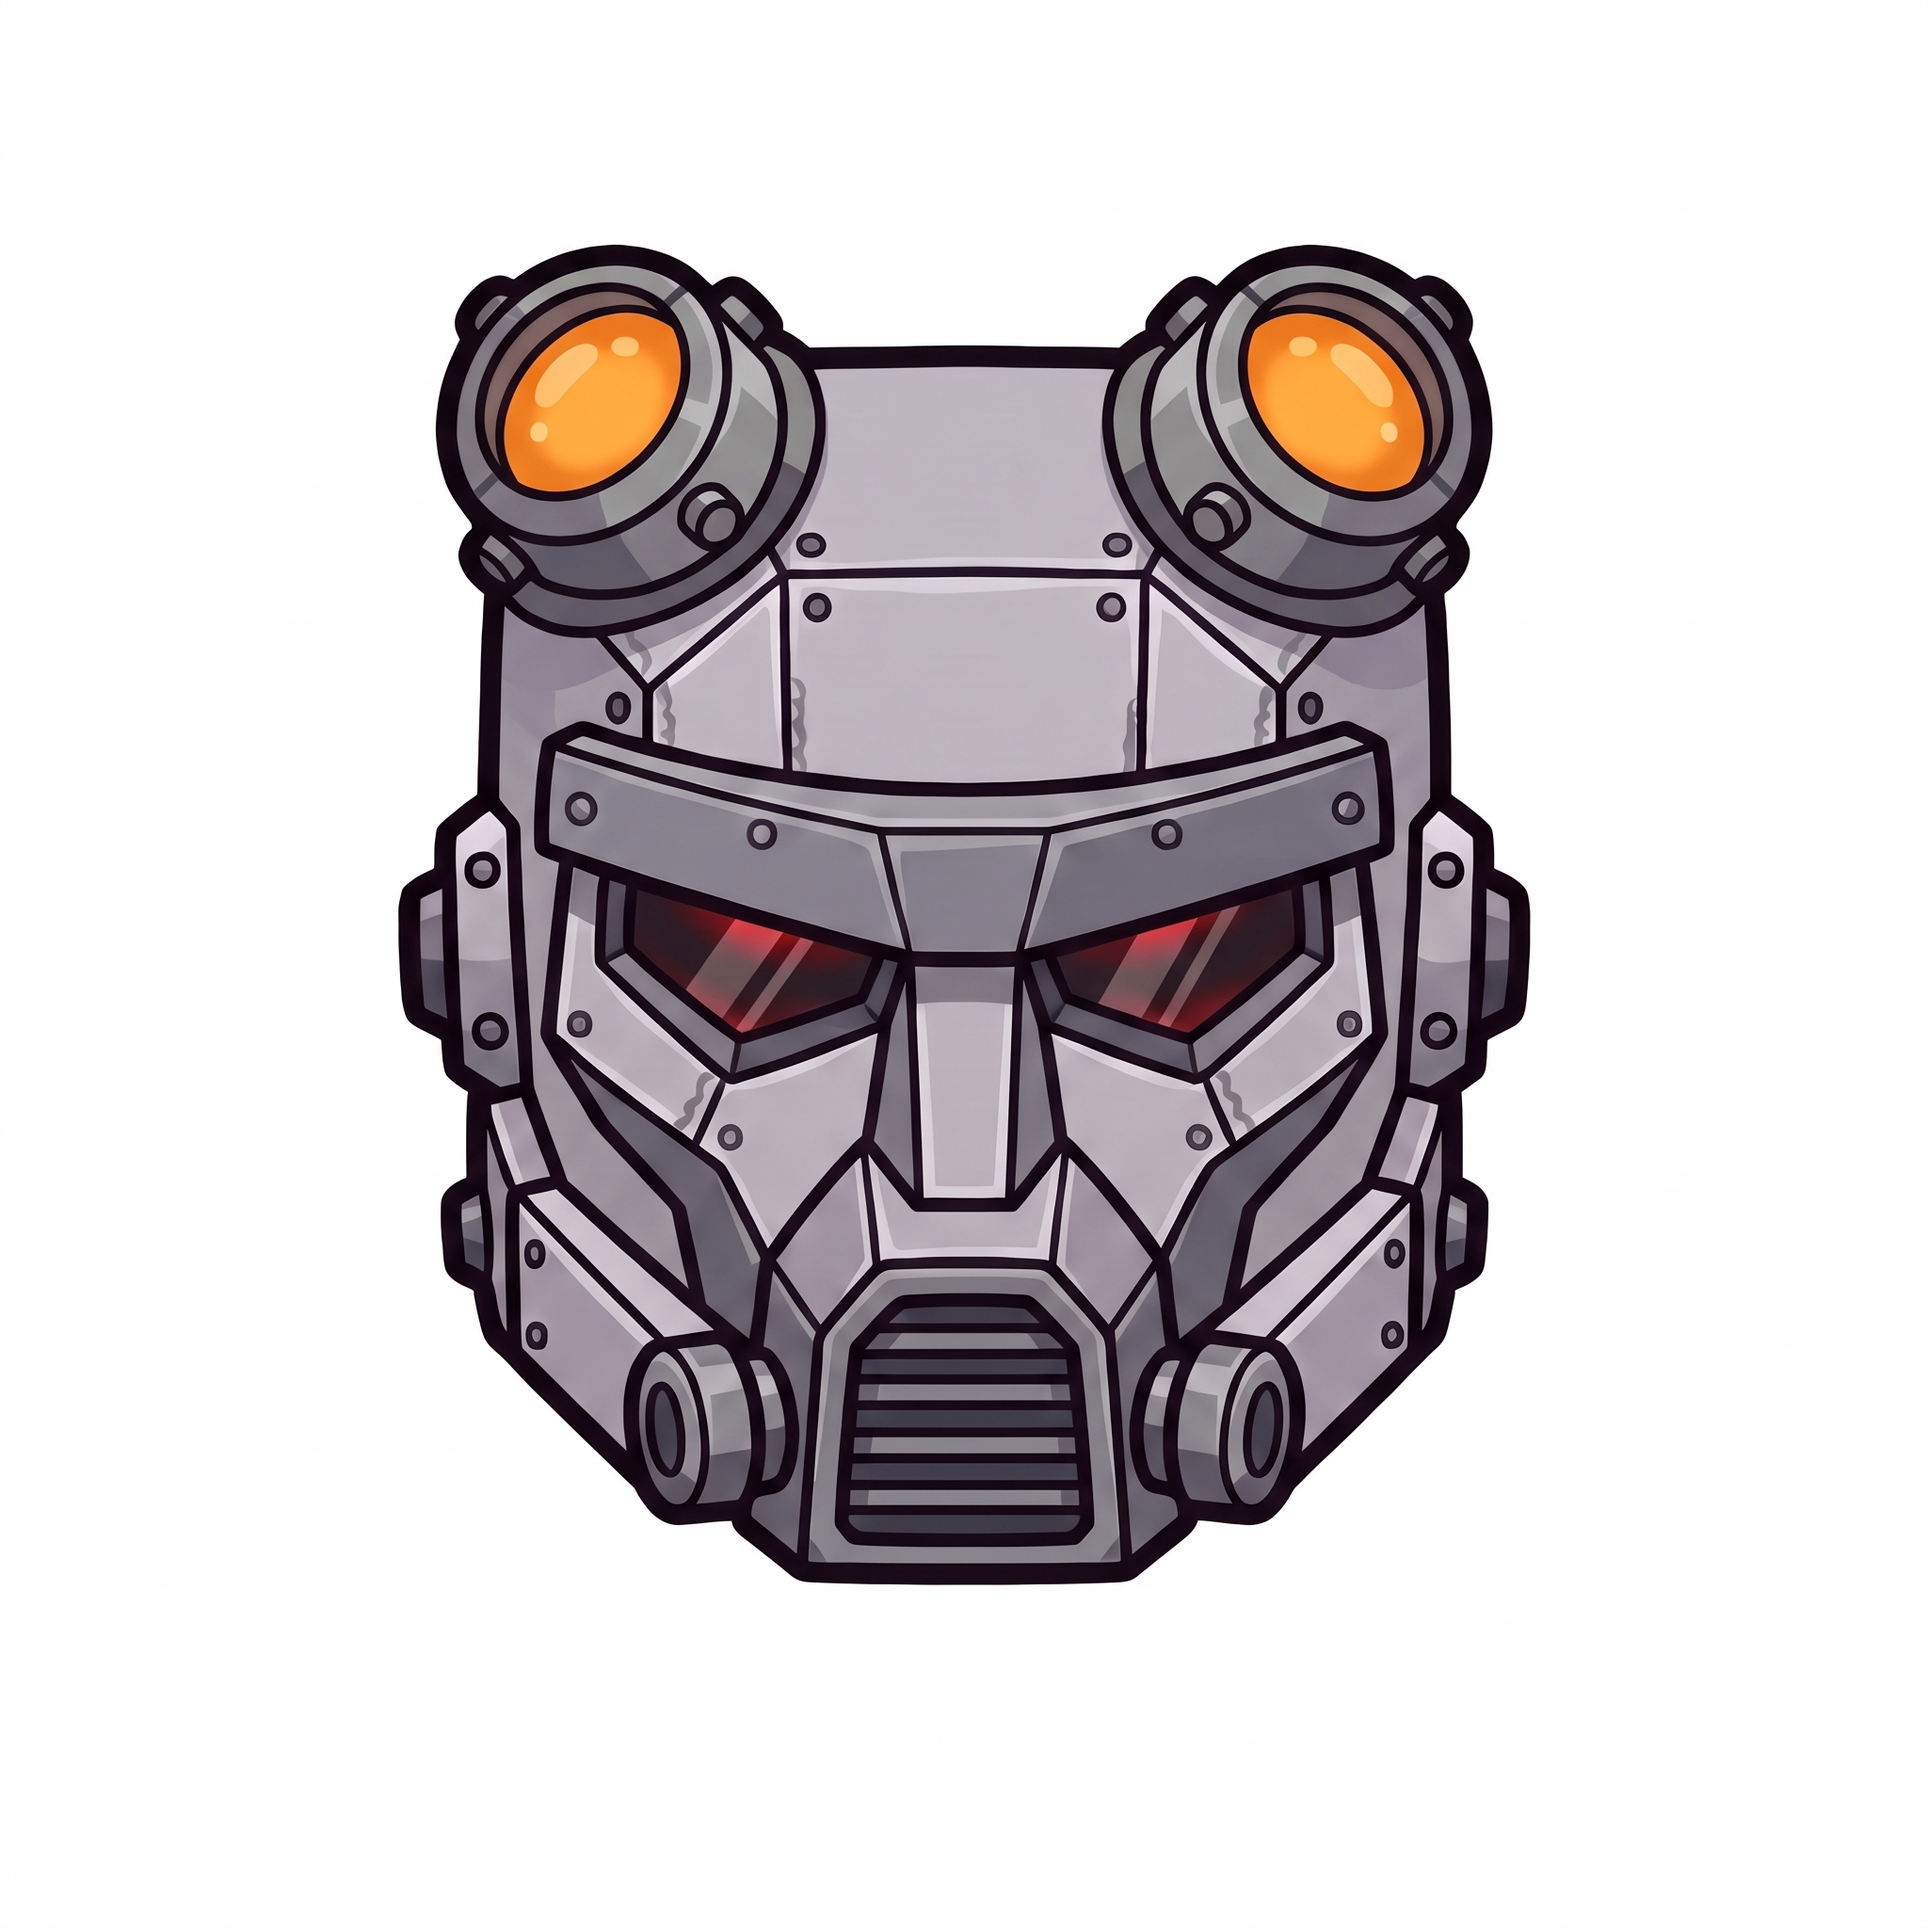
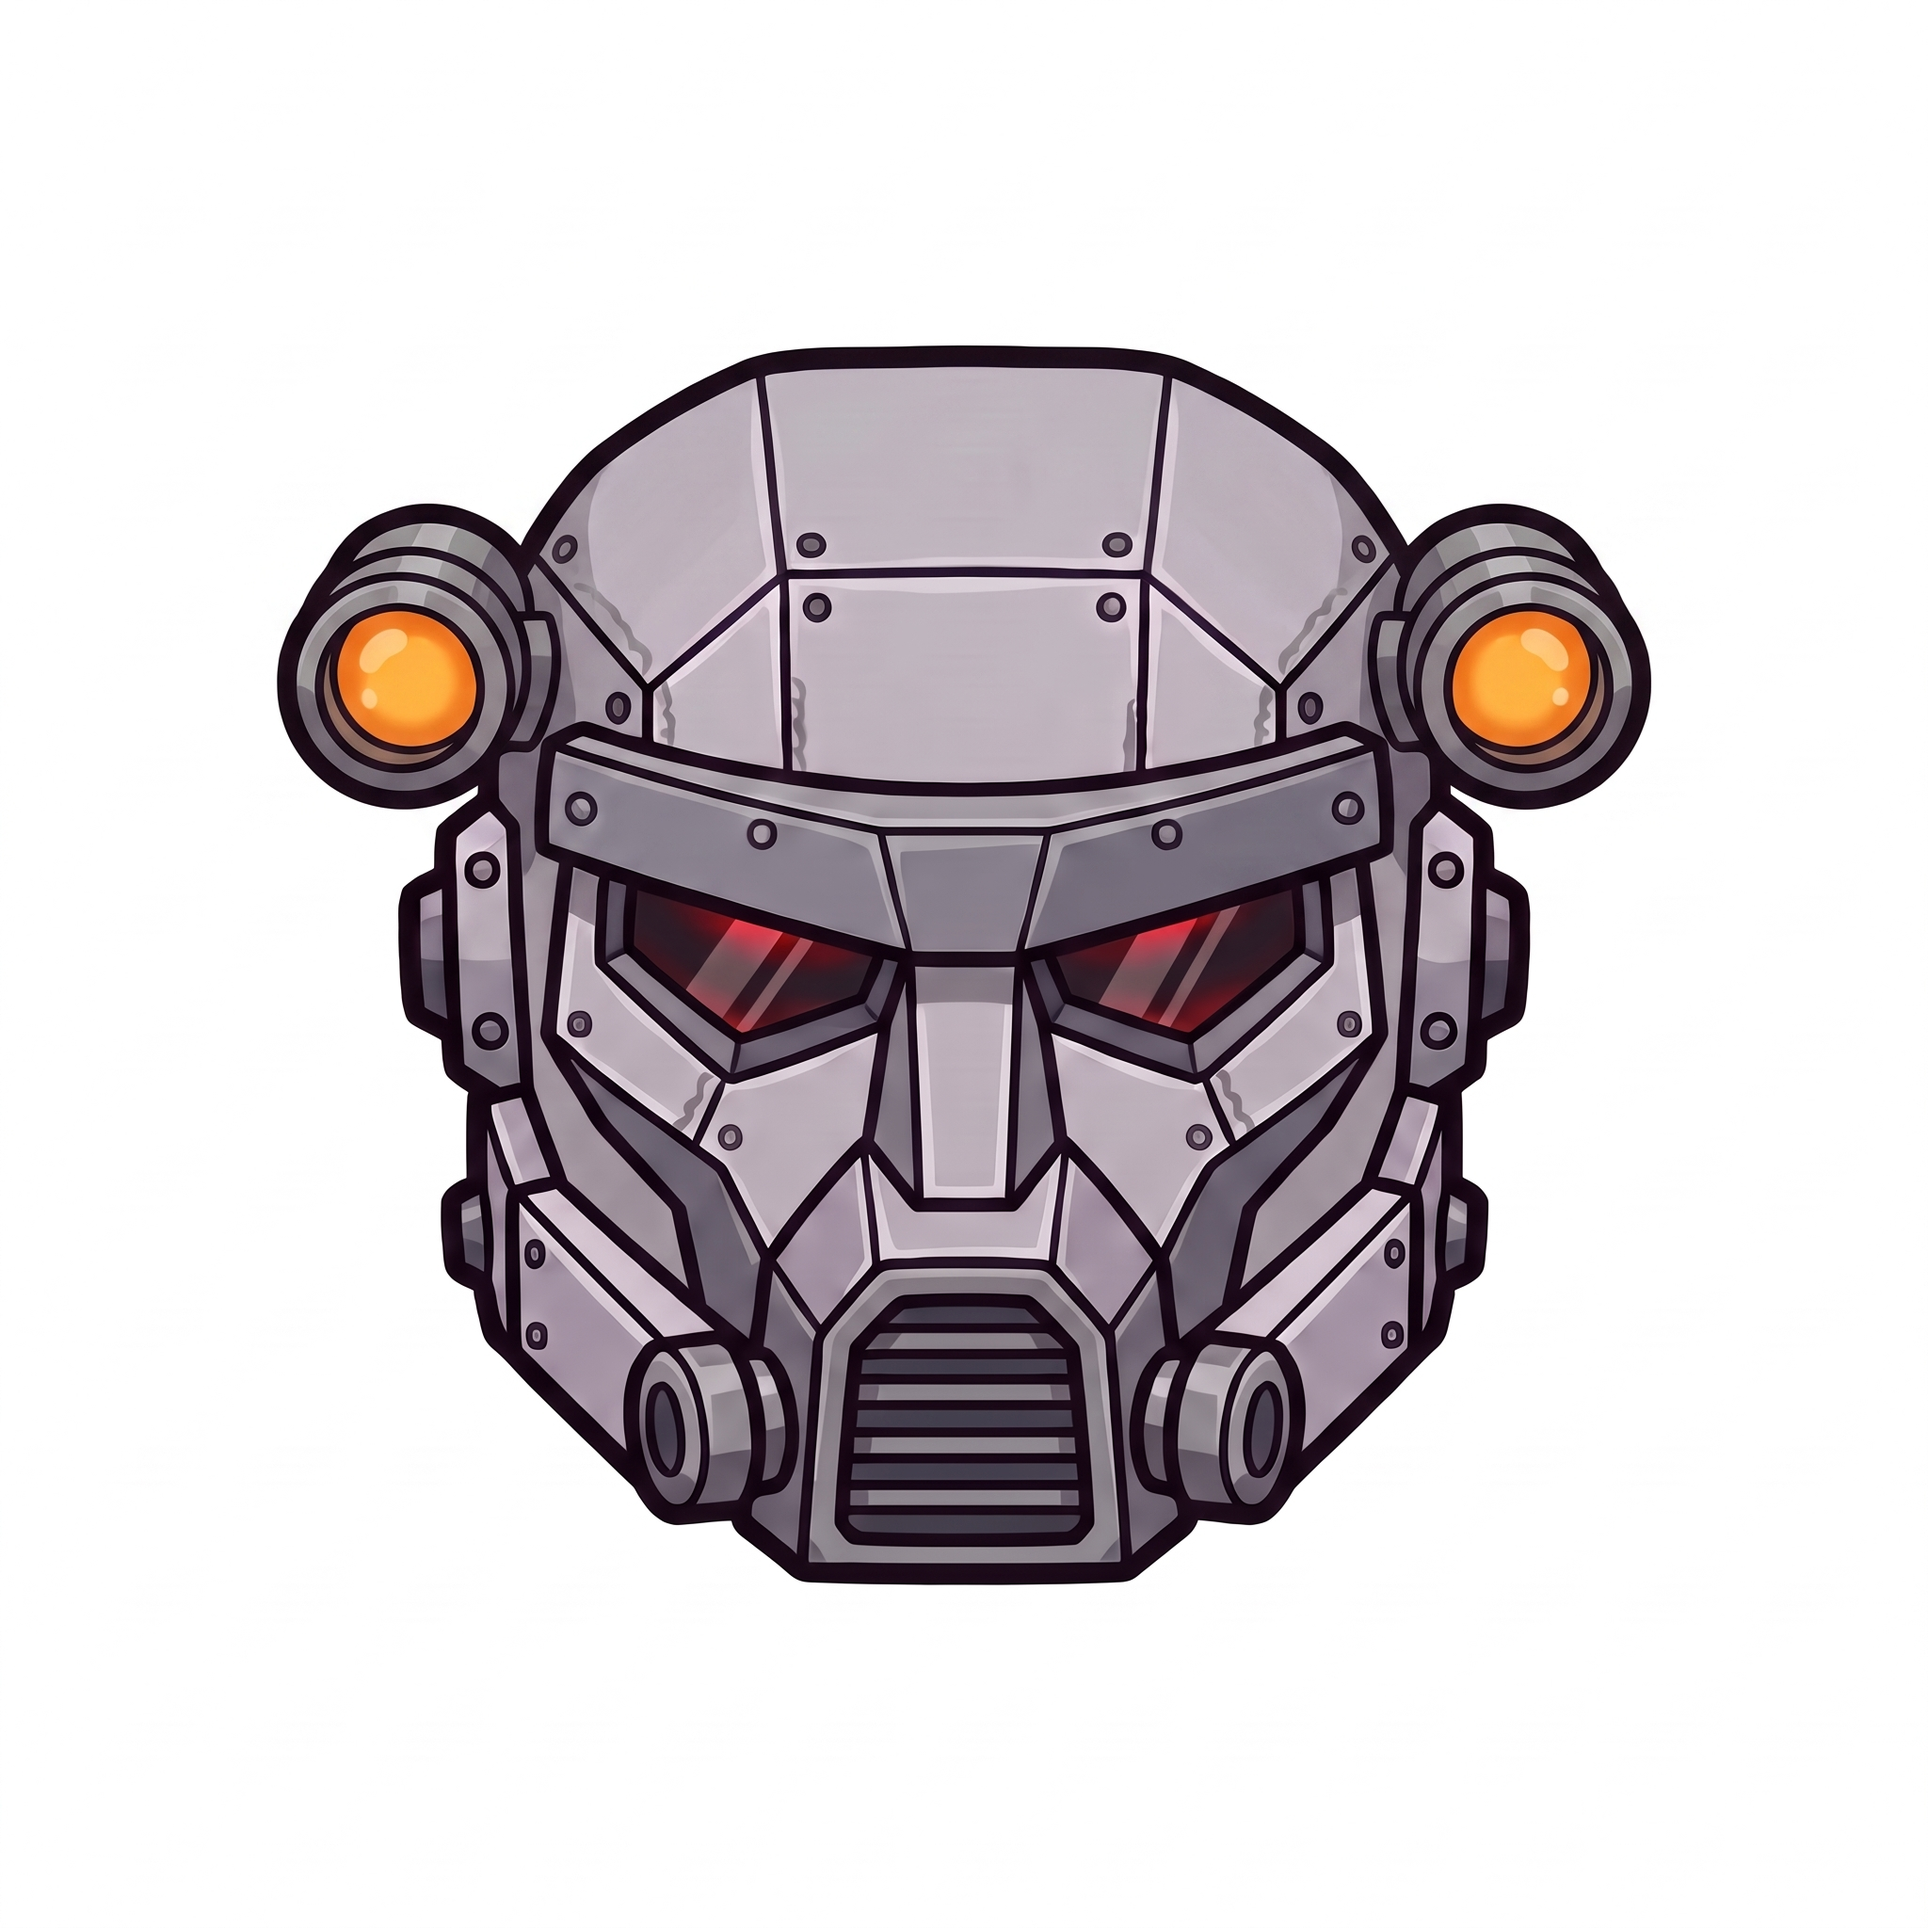
Bulwark helmet: forward-facing temple lamps, sized to full head height
Claude-Session: https://claude.ai/code/session_01GM4XsNt8FF8EEgy8oUJDKj

Changed region(s): [[0.5625, 0.125, 0.875, 0.4688], [0.125, 0.125, 0.4375, 0.4688]]

diff --git a/Source/Art/bulwark_assemble.py b/Source/Art/bulwark_assemble.py
@@ -85,7 +85,18 @@ def soften(pair,keep=4,depth=0.72,erode=0):
     if line.any():                                   # paint the filled lines like their neighbours
         r=mm[...,0].astype(float); rf=cv2.inpaint(np.ascontiguousarray(mm[...,0]),(line*255).astype(np.uint8),5,cv2.INPAINT_TELEA); mm[...,0]=np.where(line,rf,r)
     return Image.fromarray(t,'RGBA'),Image.fromarray(mm,'RGBA')
-ch=chas(SP+'/mod4/chassis_bulwark_plated2.png'); cb=np.nonzero((np.array(ch[0].split()[3])>0).any(0))[0]; print('chassis x',cb.min(),cb.max(),'plate cx',PCX); HL=helm(SP+'/mod2/'+os.environ.get('HELM','helmet_bulwark_lamps2.png'))
+ch=chas(SP+'/mod4/chassis_bulwark_plated2.png'); cb=np.nonzero((np.array(ch[0].split()[3])>0).any(0))[0]; print('chassis x',cb.min(),cb.max(),'plate cx',PCX); HL=helm(SP+'/mod2/'+os.environ.get('HELM','helmet_bulwark_fwd2.png'))
+def _hbox(pair):
+    a=np.array(pair[0].split()[3])>100; ys,xs=np.nonzero(a); return xs.min(),ys.min(),xs.max(),ys.max()
+def match_height(pair,ref):
+    "temple lamps make the helmet wider, so the width fit shrinks it: rescale to the reference helmet's height"
+    x0,y0,x1,y1=_hbox(pair); r0,s0,r1,s1=_hbox(ref); k=(s1-s0)/(y1-y0)
+    cx,by=(x0+x1)/2,y1; out=[]
+    for im in pair:
+        big=im.resize((int(im.width*k),int(im.height*k)),Image.LANCZOS); c=Image.new('RGBA',im.size)
+        c.alpha_composite(big,(int(cx-cx*k),int(s1-by*k))) if True else None; out.append(c)
+    return tuple(out)
+if 'fwd2' in os.environ.get('HELM','helmet_bulwark_fwd2.png'): HL=match_height(HL,helm(SP+'/mod2/helmet_bulwark_fwd1.png'))
 if os.environ.get('SOFT'): ch=soften(ch); HL=soften(HL,keep=4)
 loadouts=[('minigun / rockets','minigun','rockets'),('laser / chainsaw','laser','chainsaw'),('flamer / minigun','flamer','minigun'),('hammer / rockets','hammer','rockets'),('laser / laser','laser','laser'),('chainsaw / flamer','chainsaw','flamer')]
 img=Image.new('RGBA',(3*345,2*330),floor); d=ImageDraw.Draw(img)
